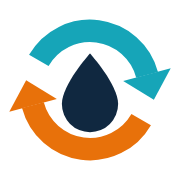
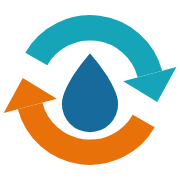
v43: ícone da aba sem fundo (opção C)
Claude-Session: https://claude.ai/code/session_016JtBg4RUu6f23dY5oypCpf

diff --git a/index.html b/index.html
@@ -312,7 +312,7 @@ body.imprimindo main { max-width:1020px; margin:0 auto; }                       
 <header class="top">
   <div class="top-linha">
     <div>
-      <div class="eyebrow">Águas do Rio • Relatório Executivo <span class="versao" id="versao">v42</span></div>
+      <div class="eyebrow">Águas do Rio • Relatório Executivo <span class="versao" id="versao">v43</span></div>
       <h1 id="titulo">Análise de Corte e Religação</h1>
     </div>
     <div class="ferramentas">
@@ -385,7 +385,7 @@ body.imprimindo main { max-width:1020px; margin:0 auto; }                       
 
 <script>
 "use strict";
-const VERSAO_SITE = "v42-20261030";
+const VERSAO_SITE = "v43-20261030";
 
 // ===================== utilidades =====================
 const $ = (id) => document.getElementById(id);

diff --git a/README.md b/README.md
@@ -65,7 +65,7 @@ O link compartilhável guarda os itens escolhidos separados por `|`.
 
 ## Recursos do painel
 
-- **Ícone da aba** (`favicon.svg`): fundo branco, gota marinho e setas grossas laranja (corte) e ciano (religação); `apple-touch-icon.png` é o atalho no celular.
+- **Ícone da aba** (`favicon.svg`): sem fundo, gota azul e setas grossas laranja (corte) e ciano (religação); `apple-touch-icon.png` é o atalho no celular.
 
 - **Gráficos** (Chart.js) em cada aba, com as tabelas logo abaixo como apoio: saldo mensal e por tipo, destino dos cortes e velocidade de religação, cortados sem a 1ª visita por mês e por cidade, régua de cobrança, permanência por tipo e eficácia do pós-corte. Clicar numa barra filtra o mês, a cidade ou o tipo.
 - **Clicar num número** (de qualquer tabela) abre, num painel lateral, as matrículas por trás dele, com ⬇ para baixar em CSV; clicar numa matrícula mostra o histórico do cliente.
